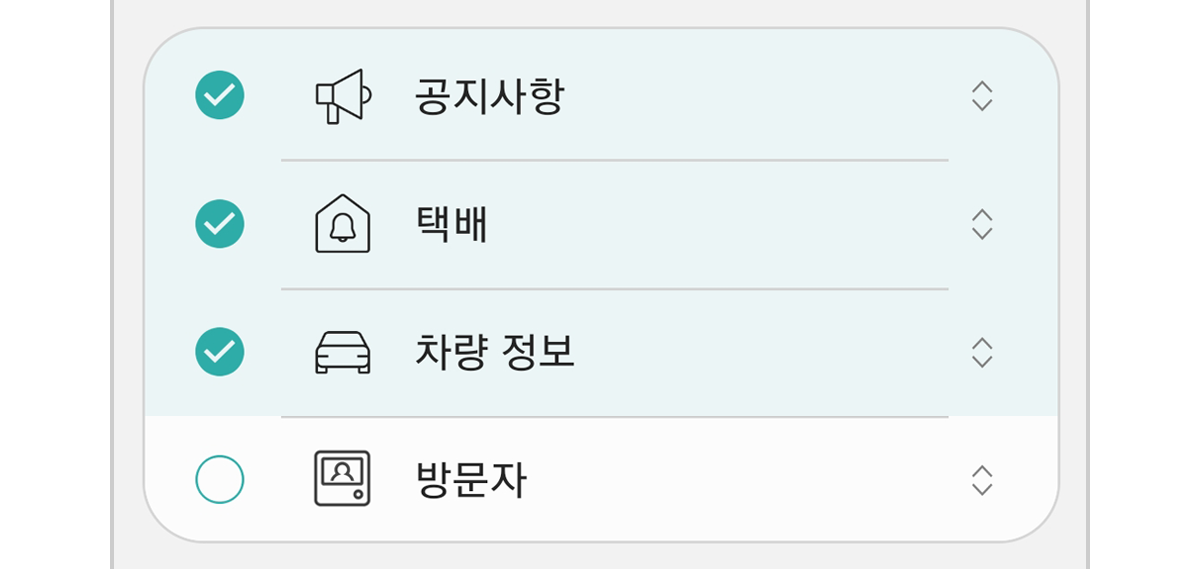
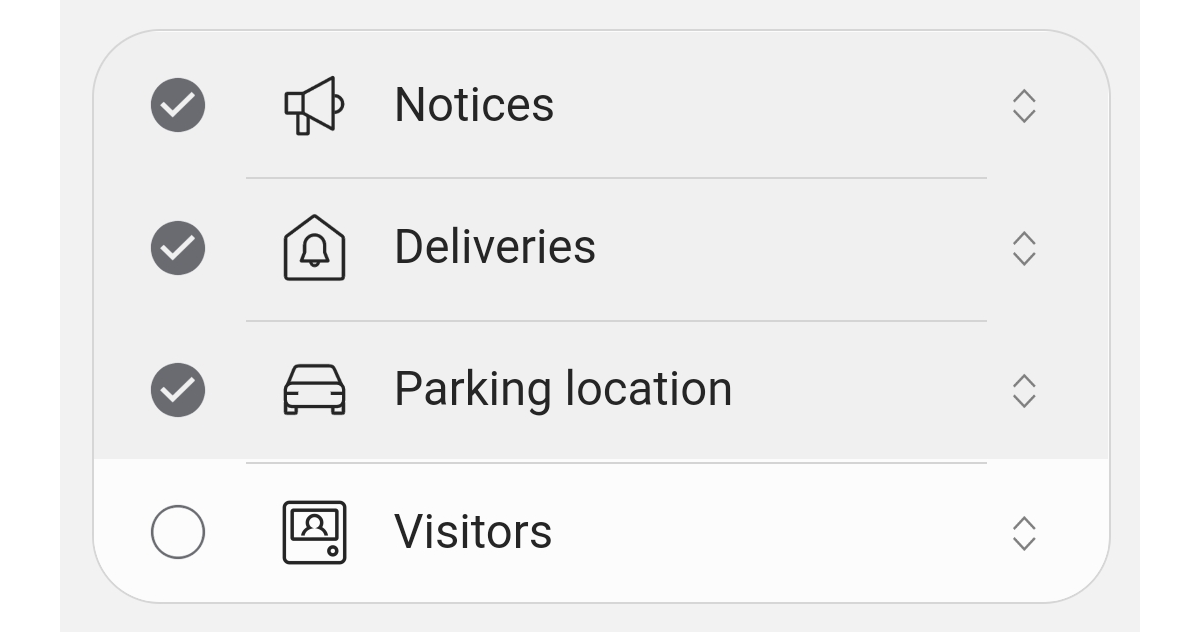
이미지

diff --git a/plugin/js/demodata/fakedataJson_eng.js b/plugin/js/demodata/fakedataJson_eng.js
@@ -55,6 +55,8 @@ var jsonDataUserInfo = {
      "message":"OK"
   },
   "data":{
+     "brandName" : "BOMZAK",
+     "brandColor":"#696B71",
      "local":"Gyeonggi-do",
      "apt_complex":"Yeongtong SmartVill",
      "building_no":"1118",
